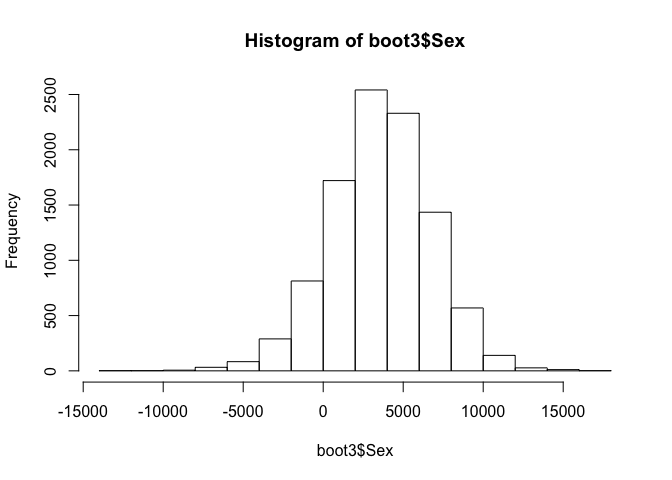
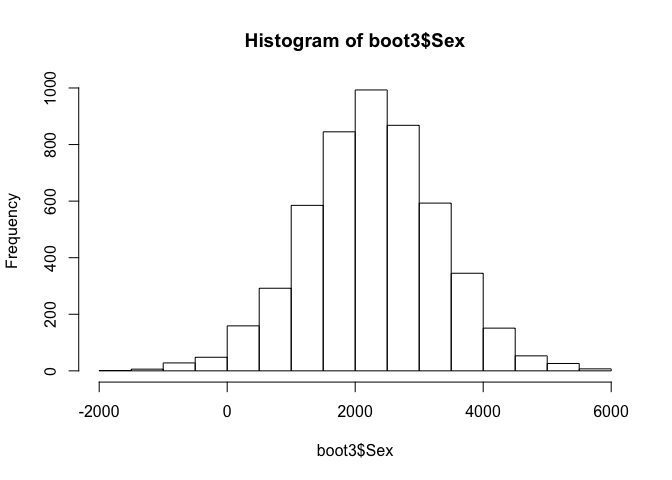
salary walkthrough

diff --git a/salary/salary.md b/salary/salary.md
@@ -1,7 +1,3 @@
----
-layout: post
----
-
 ### Example: predictors of white-collar salaries
 
 In this walk-through, we'll look at whether there seems to be a "wage
@@ -11,25 +7,24 @@ of education and experience in evaluating the correlation between an
 employee's sex and his or her annual salary.
 
 Learning goals:  
-\* fit a multiple regression model  
-\* correctly interpret the estimated coefficients  
-\* quantify uncertainty about parameters in a multiple-regression model
+- fit a multiple regression model  
+- correctly interpret the estimated coefficients  
+- quantify uncertainty about parameters in a multiple-regression model
 using bootstrapping
 
 Data files:  
-\* [salary.csv](salary.csv): human-resources data on employees at a tech
-firm.
+- [salary.csv](http://jgscott.github.io/teaching/data/salary.csv):
+human-resources data on employees at a tech firm.
 
 First load the mosaic library and read in the data.
 
     library(mosaic)
 
 The variables we'll use from this data set are:  
-\* Salary: annual salary in dollars  
-\* Experience: months of experience at the particular company  
-\* Months: total months of work experience, including all previous
-jobs  
-\* Sex: whether the employee is male or female
+- Salary: annual salary in dollars  
+- Experience: months of experience at the particular company  
+- Months: total months of work experience, including all previous jobs  
+- Sex: whether the employee is male or female
 
 Let's first Look at the distibution of salary by sex.
 
@@ -40,7 +35,7 @@ Let's first Look at the distibution of salary by sex.
 
     boxplot(Salary~Sex,data=salary, names=c("Female", "Male"))
 
-![](salary_files/figure-markdown_strict/unnamed-chunk-3-1.png)<!-- -->
+![](salary_files/figure-markdown_strict/unnamed-chunk-3-1.png)
 
 Upon first glance, it looks as though women are paid more at this
 company than men, on average.
@@ -51,7 +46,7 @@ However, does the story change if we adjust for work experience?
 
     plot(Salary~Experience, data=salary)
 
-![](salary_files/figure-markdown_strict/unnamed-chunk-4-1.png)<!-- -->
+![](salary_files/figure-markdown_strict/unnamed-chunk-4-1.png)
 
     lm1 = lm(Salary~Experience, data=salary)
     coef(lm1)
@@ -65,7 +60,7 @@ we stratify them by sex?
 
     boxplot(resid(lm1)~salary$Sex)
 
-![](salary_files/figure-markdown_strict/unnamed-chunk-5-1.png)<!-- -->
+![](salary_files/figure-markdown_strict/unnamed-chunk-5-1.png)
 
 Now it looks like men are being paid more than women for an equivalent
 amount of work experience, since men have a positive residual, on
@@ -74,7 +69,7 @@ including jobs prior to the one with this particular company:
 
     plot(Salary~Months, data=salary)
 
-![](salary_files/figure-markdown_strict/unnamed-chunk-6-1.png)<!-- -->
+![](salary_files/figure-markdown_strict/unnamed-chunk-6-1.png)
 
     lm2 = lm(Salary~Months, data=salary)
     coef(lm2)
@@ -87,59 +82,52 @@ salaries for men is shifted upward compared to that for women.
 
     boxplot(resid(lm2)~salary$Sex)
 
-![](salary_files/figure-markdown_strict/unnamed-chunk-7-1.png)<!-- -->
+![](salary_files/figure-markdown_strict/unnamed-chunk-7-1.png)
 
 ### Fitting a multiple regression model by least squares
 
 To get at the partial relationship between gender and salary, we must
 fit multiple-regression model that accounts for experience with the
-company and total number of months of professional work. It is
+company and total number of months of professional work. We will also
+adjust for a third variable: years of post-secondary education. It is
 straightforward to fit such a model by least squares in R.
 
-    lm3 = lm(Salary ~ Experience + Months + Sex, data=salary)
+    lm3 = lm(Salary ~ Experience + Months + Education + Sex, data=salary)
     coef(lm3)
 
-    ## (Intercept)  Experience      Months         Sex 
-    ##  41348.0287    125.8495    265.5492   2485.9645
+    ## (Intercept)  Experience      Months   Education         Sex 
+    ##  39305.7117    122.2467    263.5782    591.0780   2320.5438
 
-According to this model, men are paid $2486 more per year than women
-with similar levels of work experience, both overall and with this
-particular company.
+According to this model, men are paid $2320 more per year than women
+with similar levels of education and work experience, both overall and
+with this particular company.
 
 ### Bootstrapping a multiple regression model
 
 We can quantify our uncertainty about this effect via bootstrapping:
 
-    boot3 = do(10000)*{
-      lm(Salary~Experience+Education+Sex, data=resample(salary))
+    boot3 = do(5000)*{
+      lm(Salary~Experience+Months+Education+Sex, data=resample(salary))
     }
     hist(boot3$Sex)
 
-![](salary_files/figure-markdown_strict/unnamed-chunk-9-1.png)<!-- -->
+![](salary_files/figure-markdown_strict/unnamed-chunk-9-1.png)
 
     confint(boot3)
 
-    ## Warning: confint: Using df=Inf.
+    ##         name         lower        upper level     method     estimate
+    ## 1  Intercept 35215.3701998 4.493656e+04  0.95 percentile 3.930571e+04
+    ## 2 Experience    44.3151747 1.950210e+02  0.95 percentile 1.222467e+02
+    ## 3     Months   236.7148283 2.921528e+02  0.95 percentile 2.635782e+02
+    ## 4  Education  -736.8814256 1.434428e+03  0.95 percentile 5.910780e+02
+    ## 5        Sex   190.9743496 4.326123e+03  0.95 percentile 2.320544e+03
+    ## 6      sigma  1967.5649458 2.962562e+03  0.95 percentile 2.672043e+03
+    ## 7  r.squared     0.9151387 9.665268e-01  0.95 percentile 9.380802e-01
+    ## 8          F   102.4474432 2.743087e+02  0.95 percentile 1.439242e+02
 
-    ##         name         lower        upper level method     estimate
-    ## 1  Intercept  3.011667e+04 5.542272e+04  0.95 stderr 4.292237e+04
-    ## 2 Experience  2.114495e+02 6.492590e+02  0.95 stderr 4.394266e+02
-    ## 3  Education -6.234819e+02 3.843099e+03  0.95 stderr 1.533799e+03
-    ## 4        Sex -2.607113e+03 9.782201e+03  0.95 stderr 3.544613e+03
-    ## 5      sigma  6.945121e+03 1.045042e+04  0.95 stderr 9.092978e+03
-    ## 6  r.squared  6.212497e-02 5.352548e-01  0.95 stderr 2.640703e-01
-    ## 7          F -1.298750e+00 1.363493e+01  0.95 stderr 4.664730e+00
-    ##   margin.of.error
-    ## 1    1.265302e+04
-    ## 2    2.189047e+02
-    ## 3    2.233291e+03
-    ## 4    6.194657e+03
-    ## 5    1.752648e+03
-    ## 6    2.365649e-01
-    ## 7    7.466838e+00
-
-In this case, the bootstrapped confidence interval runs from about
--$2600 to about $9600. Thus while there is the suggestion of higher
-salaries for men, we cannot rule the hypothesis that there is no overall
-difference (i.e. a coefficient of zero on the dummy variable) on
-average.
+In this case, the bootstrapped confidence interval runs from about $160
+to about $4300. (You'll get slightly different confidence intervals than
+shown here, because of the Monte Carlo variability inherent to
+bootstrapping.) This is quite a wide range: we cannot rule out that the
+wage gap is quite small, but nor can we rule out that it might run into
+the thousands of dollars.
